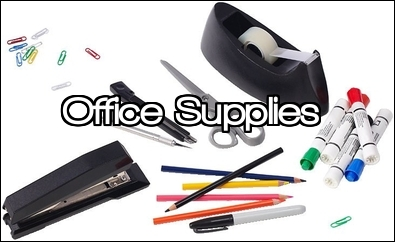
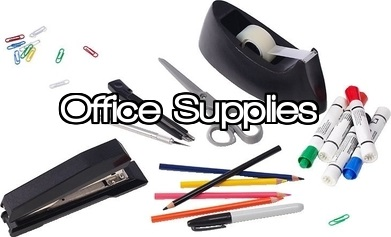
Put remaining images on homepage, search bar looks better?
Also removed border from homepage images

diff --git a/index.html b/index.html
@@ -57,7 +57,7 @@
 
         <div class="span6">
           <a href="search_results.html">
-            <img src="resources/img/toys.jpg" height="240" width="450">
+            <img src="resources/img/toys_resize.jpg" height="240" width="450">
           </a>
         </div>
 
@@ -74,8 +74,14 @@
           <h2>Heading</h2>
           <p><a class="btn" href="#">View details &raquo;</a></p>
         </div>
+        
         <div class="span6">
-          <h2>Search</h2>
+          <div id='search-box'>
+            <form action='/search' id='search-form' method='get' target='_top'>
+              <input id='search-text' name='q' placeholder='type here' type='text'/>
+              <button id='search-button' type='submit'><span>Search</span></button>
+            </form>
+          </div>
         </div>
 
         <div class="span3 invisible">
@@ -87,8 +93,9 @@
       <!-- Row 3 -->
       <div class="row">
         <div class="span3">
-          <h2>Heading</h2>
-          <p><a class="btn" href="#">View details &raquo;</a></p>
+          <a href="search_results.html">
+            <img src="resources/img/food_resize.jpg" height="300" width="225">
+          </a>
         </div>
 
         <div class="span6">
@@ -98,15 +105,16 @@
         </div>
 
         <div class="span3">
-          <h2>Heading</h2>
-          <p><a class="btn" href="#">View details &raquo;</a></p>
+          <a href="search_results.html">
+            <img src="resources/img/electronics_resize.jpg" height="300" width="225">
+          </a>
         </div>
       </div>
     </div>
     
     <div class="container">
       <footer>
-        <p>&copy; Company 2013</p>
+        <p>&copy; EasyShop 2013</p>
       </footer>
     </div>
   </body>

diff --git a/resources/css/index.css b/resources/css/index.css
@@ -8,3 +8,45 @@ img {
   width: 100%;
   border: 1px;
 }
+
+/* search form 
+-------------------------------------- */
+#search-form {
+    padding-top: 8px;
+    padding-left: 8px;
+    position: relative;
+    height: 40px;
+    border: 1px solid #aaa;
+    -webkit-border-radius: 5px;
+    -moz-border-radius: 5px;
+    border-radius: 5px;
+    background-color: #fff;
+    -webkit-box-shadow: inset 0 0 5px #bbb;
+    -moz-box-shadow: inset 0 0 5px #bbb;
+    box-shadow: inset 0 0 5px #bbb;
+    overflow: hidden;
+}
+
+#search-button {
+    position: absolute;
+    top: 4px;
+    right: 1px;
+    height: 40px;
+    width: 79px;
+    font-size: 14px;
+    color: #fff;
+    text-align: center;
+    line-height: 40px;
+    border-width: 0;
+    border-left: 1px solid #aaa;
+    -webkit-border-radius: 0px 3px 2px 0px;
+    -moz-border-radius: 0px 3px 2px 0px;
+    border-radius: 0px 3px 2px 0px;
+    background-color: #bbb;
+    background: -moz-linear-gradient(top, #c9c9c9 0%, #999999);
+    background: -webkit-gradient(linear, left top, left bottom, from(#c9c9c9), to(#999999));
+    -webkit-box-shadow: -4px 0px 3px -2px #ddd;
+    -moz-box-shadow: -4px 0px 3px -2px #ddd;
+    box-shadow: -4px 0px 3px -2px #ddd;
+    cursor: pointer;
+}
